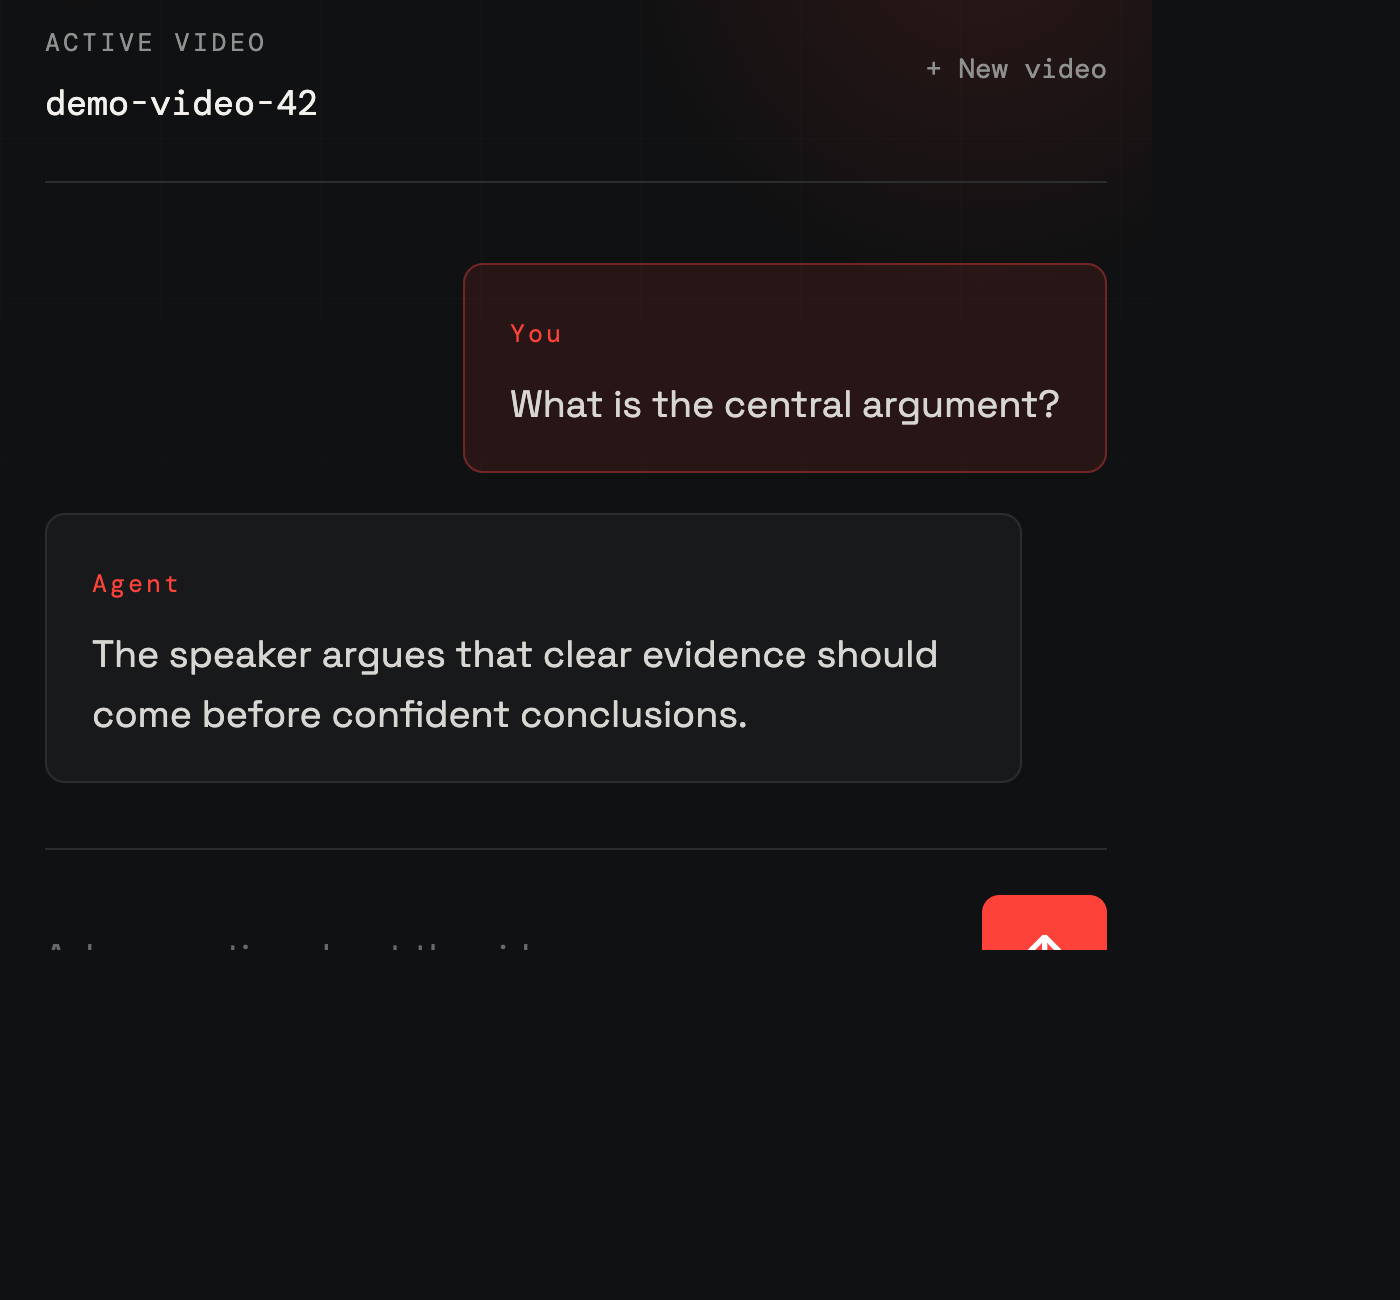
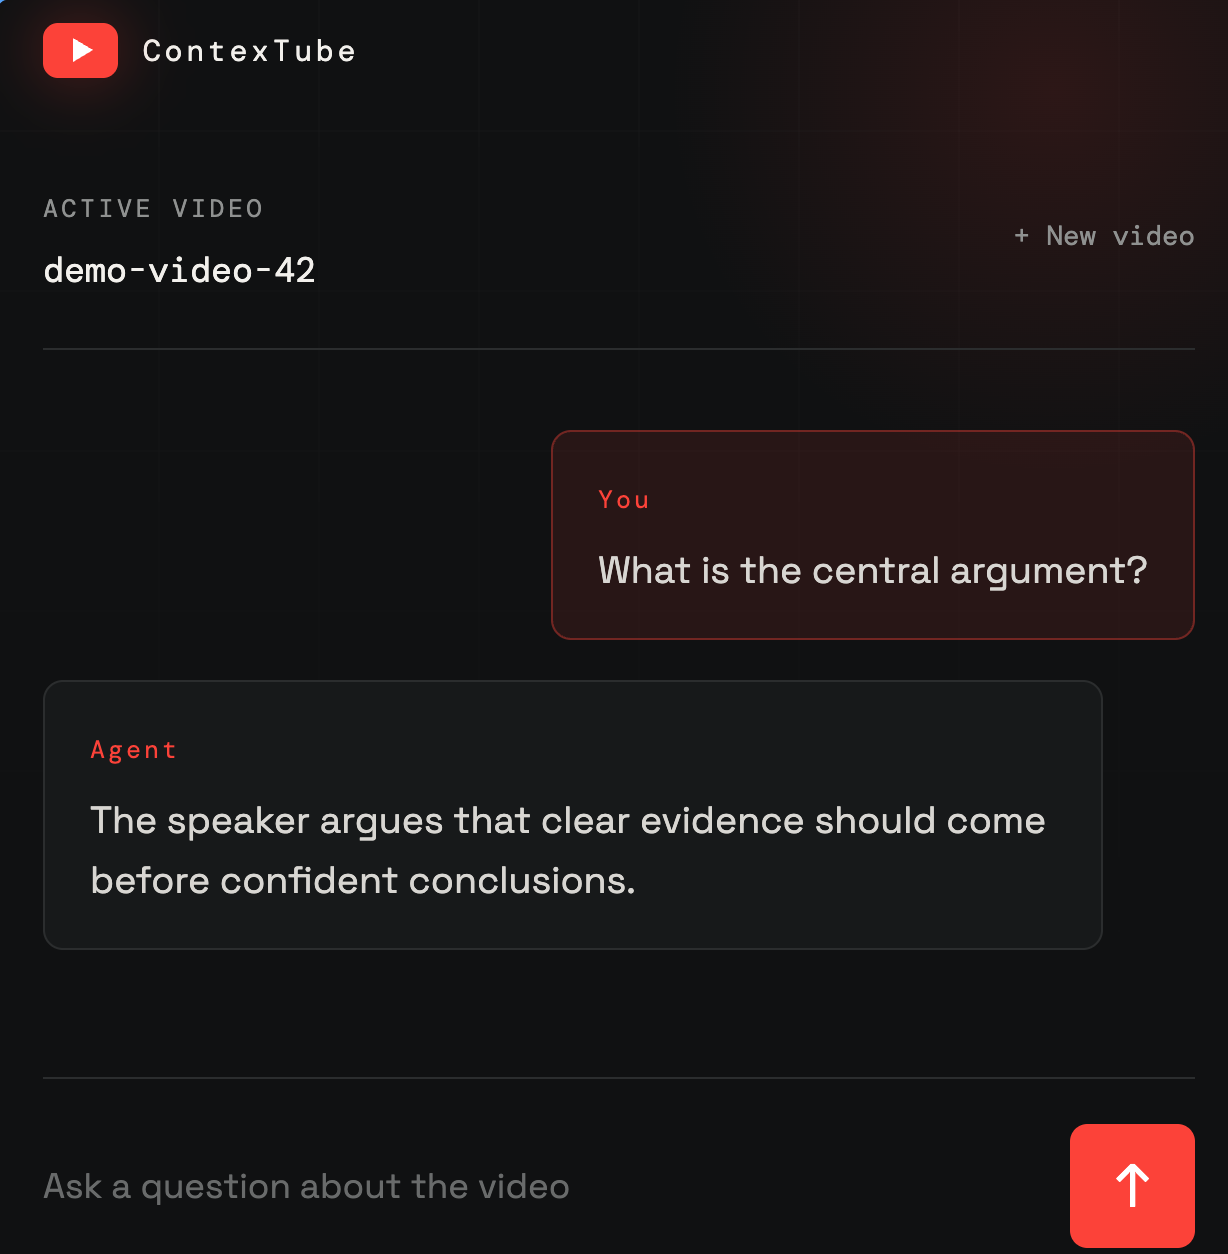
Update README screenshots and punctuation

diff --git a/README.md b/README.md
@@ -16,14 +16,14 @@ video. If the answer isn't there, it says so instead of guessing.
 
 ## How it works
 
-1. `POST /api/index` — give it a YouTube URL. It pulls the transcript
+1. `POST /api/index` - give it a YouTube URL. It pulls the transcript
   (LangChain's `YoutubeLoader` first, `yt-dlp` as a fallback if that fails
   or is blocked), chunks it, embeds it with Ollama, and stores
    it in a Chroma collection scoped to that video's ID.
-2. `POST /api/ask` — give it a `video_id` and a question. It retrieves the
+2. `POST /api/ask` - give it a `video_id` and a question. It retrieves the
    most relevant chunks and checks their similarity scores *before* calling
    the LLM. If nothing clears the confidence threshold, it returns
-   "This wasn't covered in the video" without ever invoking the model —
+  "This wasn't covered in the video" without ever invoking the model -
    so the guardrail is structural, not just a prompt instruction.
 
 ## Setup
@@ -69,12 +69,12 @@ curl -X POST localhost:8000/api/ask \
 
 - `YoutubeLoader` (via `youtube-transcript-api`) gets rate-limited or
   blocked by YouTube periodically. The `yt-dlp` fallback in
-  `transcript_loader.py` exists specifically for this — if you see it
+  `transcript_loader.py` exists specifically for this - if you see it
   triggering often, that's expected, not a bug.
 - The LangChain-loader path currently returns one untimed blob of text
   (no per-line timestamps), so timestamp citations only work reliably
   when the yt-dlp fallback is the one that ran. Worth tightening later
-  if you want timestamps to always be available — see "Next steps."
+  if you want timestamps to always be available, improve this path directly.
 - `retrieval_score_threshold` in `.env` controls how strict the "was this
   covered" guardrail is. Chroma's relevance score isn't perfectly
   calibrated across embedding models, so tune this against a few real
@@ -82,7 +82,7 @@ curl -X POST localhost:8000/api/ask \
 
 ## Frontend
 
-Vite + React, no UI framework, no state library — just `useState` and
+Vite + React, no UI framework, no state library - just `useState` and
 `fetch`. Three states in one page: URL input, indexing status, chat.
 The vite dev server proxies `/api` to `http://localhost:8000`, so run the
 backend first.
@@ -98,7 +98,7 @@ npm run dev
 `agent/test_writer.py` is a small agentic loop: it pulls the app's *live*
 OpenAPI schema (so any endpoint you've added shows up automatically), asks
 Claude to write pytest tests for a given router, actually runs them, and
-if any fail, feeds the real pytest output back to Claude to fix — up to 3
+if any fail, feeds the real pytest output back to Claude to fix - up to 3
 attempts.
 
 ```bash
@@ -108,7 +108,7 @@ python -m agent.test_writer app/routers/video.py
 ```
 
 Generated tests land in `tests/test_<router_name>.py`. To cover a new
-router you add later, just point it at that file — nothing else changes.
+router you add later, just point it at that file - nothing else changes.
 
 The generated tests mock external calls (Ollama, Chroma) so running them
 never requires a running model server. The Anthropic key is only used by the
